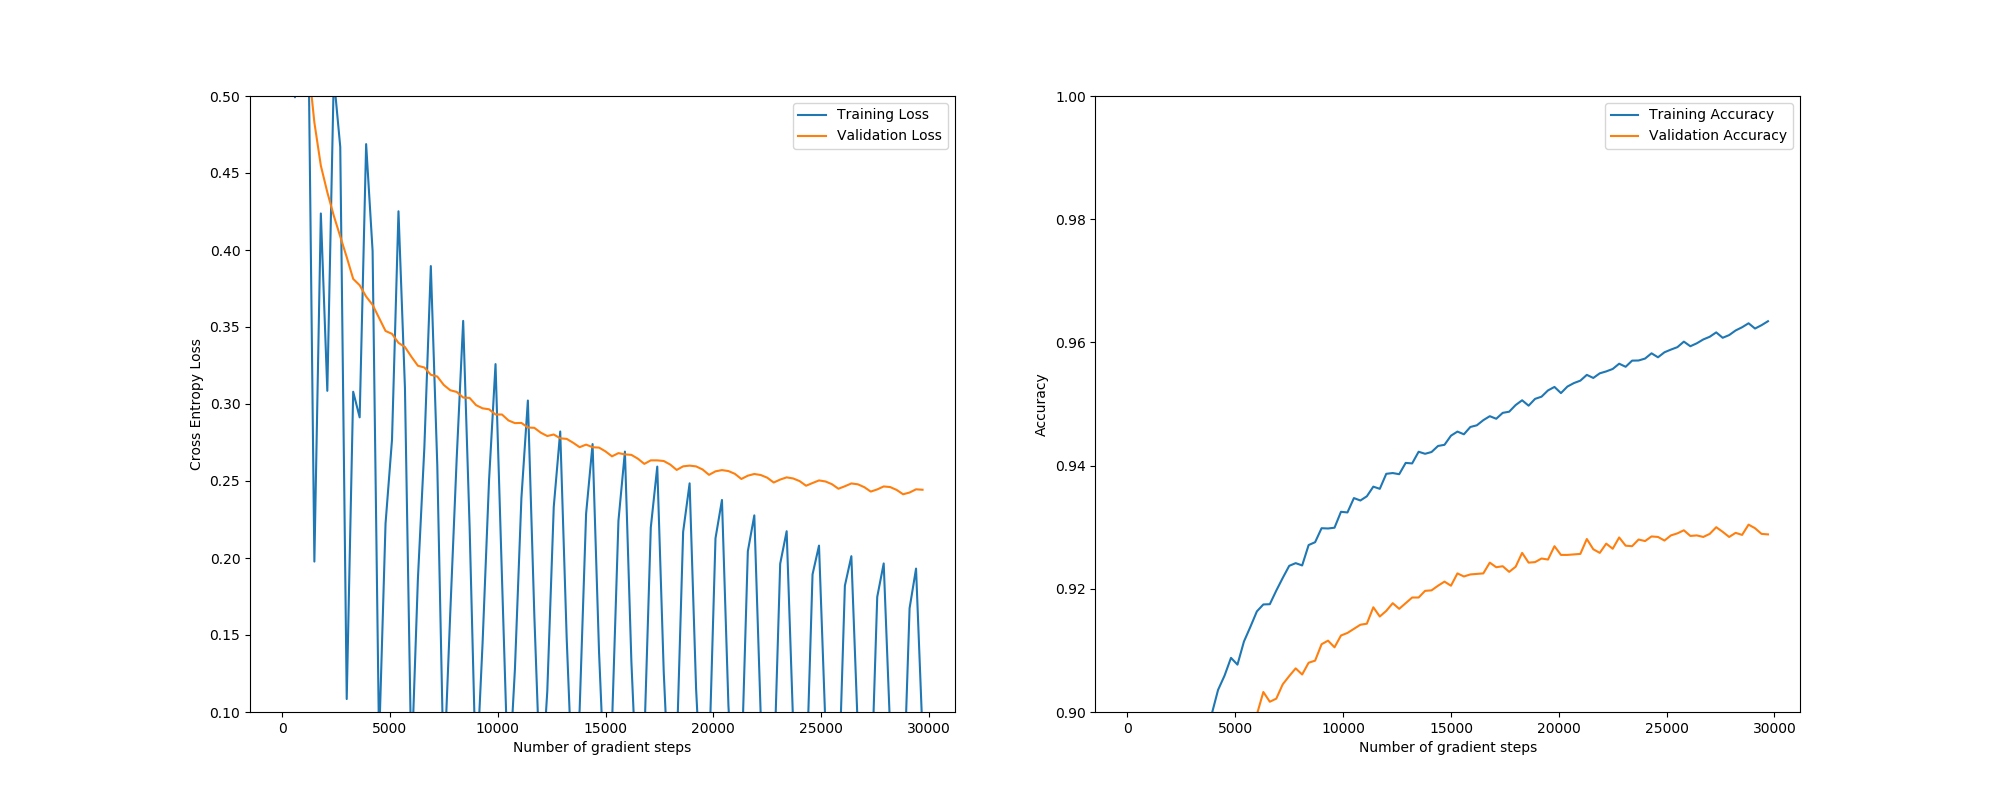
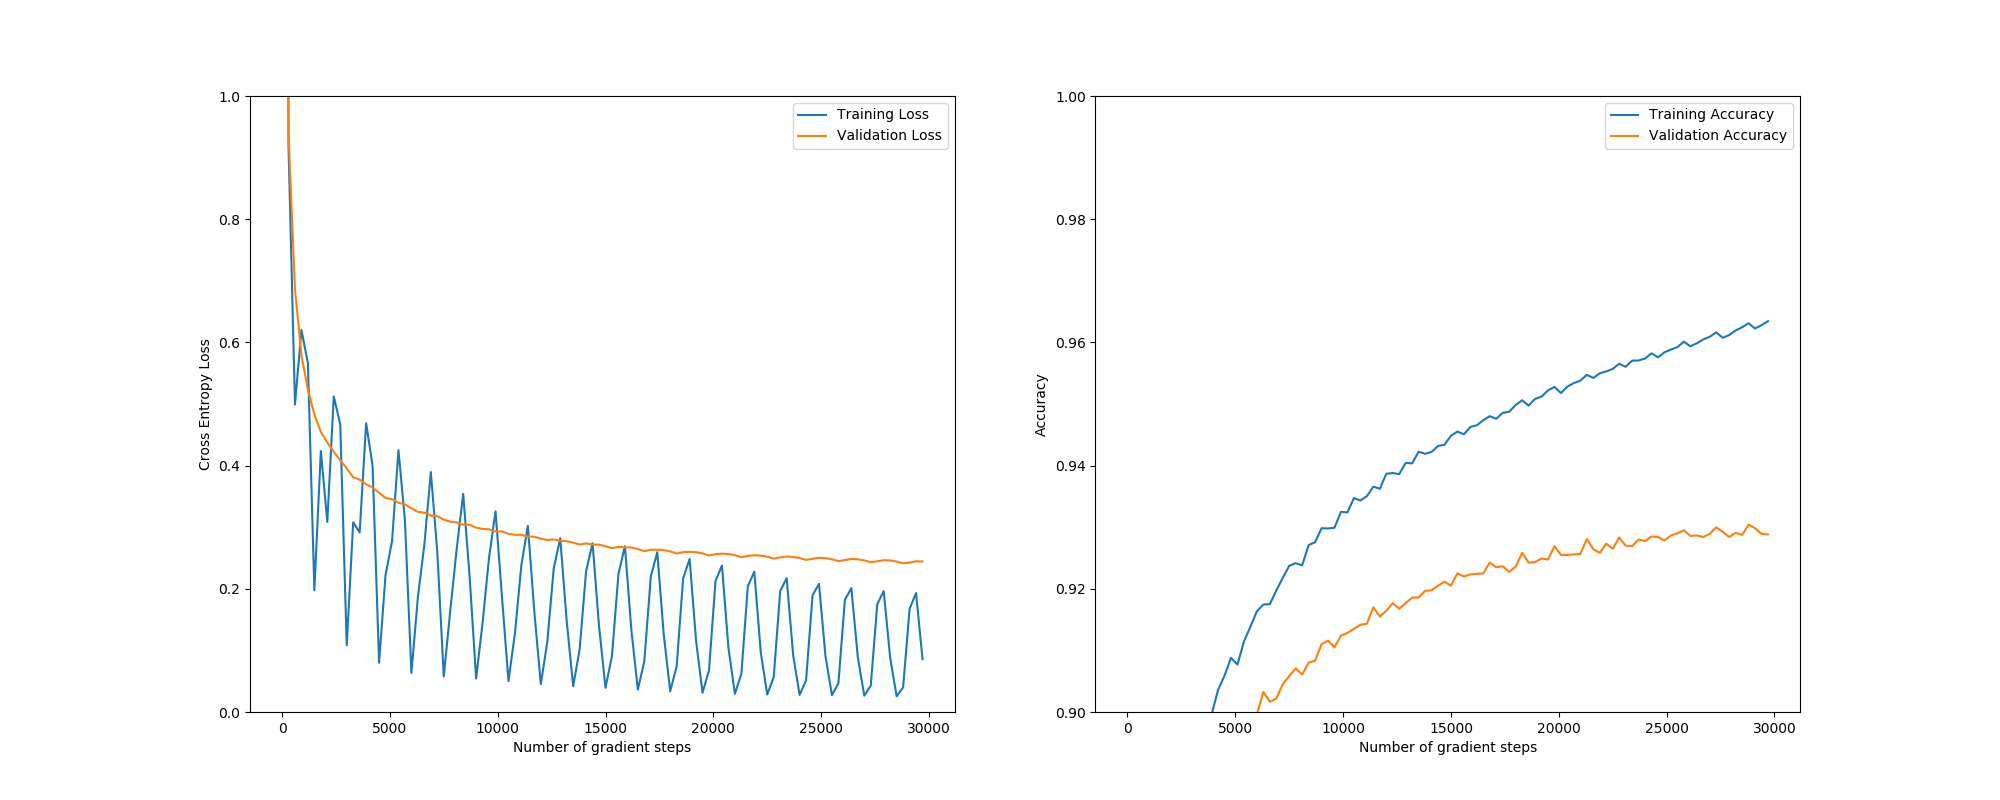
working gradient descent for MULTIPLE!!! layers

Changed region(s): [[0.093, 0.125, 0.465, 0.875], [0.372, 0.5938, 0.465, 0.625]]

diff --git a/assignment2/task2a.py b/assignment2/task2a.py
@@ -68,6 +68,9 @@ class SoftmaxModel:
         # A hidden layer with 64 neurons and a output layer with 10 neurons.
         self.neurons_per_layer = neurons_per_layer
 
+        #improvements
+        self.better_sigmoid = False
+
         #chaches
         self.activations = []
         self.forwards = []
@@ -108,6 +111,7 @@ class SoftmaxModel:
 
 
         z = np.dot(prev,self.ws[-1])
+        forwards.append(z)
 
         #softmax
         prev = np.divide(np.exp(z),np.sum(np.exp(z),axis = 1).reshape(-1,1))
@@ -136,21 +140,43 @@ class SoftmaxModel:
         # For example, self.grads[0] will be the gradient for the first hidden layer
         self.grads = []
 
+        activations = self.activations
+        forwards = self.forwards
 
-        zj = np.dot(X, self.ws[0])
-        aj = 1/(1 + np.exp(-zj))
+        #zj = np.dot(X, self.ws[0])
+        #aj = 1/(1 + np.exp(-zj))
 
-        del_k = - (targets - outputs)
+        for i in range(len(self.ws)):
+            #last layer
+            if i == 0:
+                del_k = - (targets - outputs)
+                self.grads.append(np.dot(del_k.T, activations[-1]).T/X.shape[0])
 
-        grad_w_kj = (np.dot(del_k.T, aj)).T
+            else:
+                if self.use_improved_sigmoid:
+                    #to be implemented
+                    break
+                else:
+                    #all hidden layer
+                    der_sig = (1/(1 + np.exp(-forwards[-i-1])))*(1 - (1/(1 + np.exp(-forwards[-i-1]))))
+                    del_j = np.dot(del_k, self.ws[-i].T)*der_sig
+                    grad_w_ij = np.dot(activations[-i-1].T,del_j)
+                    self.grads.insert(0, grad_w_ij/X.shape[0]) #insert in the beginning of list
+                    del_k = del_j
 
-        der_sig = (1/(1 + np.exp(-zj)))*(1 - (1/(1 + np.exp(-zj))))
 
-        del_j = np.dot(self.ws[1], del_k.T)* der_sig.T
-        grad_w_ij = np.dot(del_j, X).T
+
+
+
+        #grad_w_kj = (np.dot(del_k.T, activations[-1])).T #outputlayer
+
+        #der_sig = (1/(1 + np.exp(-zj)))*(1 - (1/(1 + np.exp(-zj))))
+
+        #del_j = np.dot(self.ws[1], del_k.T) * der_sig.T
+        #grad_w_ij = np.dot(del_j, X).T
 
         #self.grads = [grad_w_ij.T/X.shape[0], grad_w_kj.T/X.shape[0]]
-        self.grads = [grad_w_ij/X.shape[0], grad_w_kj/X.shape[0]]
+        #self.grads = [grad_w_ij/X.shape[0], grad_w_kj/X.shape[0]]
 
         for grad, w in zip(self.grads, self.ws):
             assert grad.shape == w.shape,\

diff --git a/assignment2/task2.py b/assignment2/task2.py
@@ -54,12 +54,7 @@ def train(
 
             #task2c
             #randomize weights for hidden layers
-            '''
-            for i in range (len(model.ws)-1):
-                model.ws[i] = np.random.uniform(-1,1,(785, 64))
-            #randomize weights for outputlayer
-            model.ws[-1] = np.random.uniform(-1,1,(64, 10))
-'''
+
             outputs = model.forward(X_batch)
             model.backward(X_batch, outputs, Y_batch)
 
@@ -67,6 +62,8 @@ def train(
             for i in range(len(model.ws)):
                 model.ws[i] -= learning_rate * model.grads[i]
 
+            #_train_loss = cross_entropy_loss(Y_train, model.forward(X_train))
+            #train_loss[global_step] = _train_loss
 
 
             # Track train / validation loss / accuracy
@@ -75,8 +72,7 @@ def train(
                 _val_loss = cross_entropy_loss(Y_val, model.forward(X_val))
                 val_loss[global_step] = _val_loss
 
-                _train_loss = cross_entropy_loss(Y_batch, outputs)
-                train_loss[global_step] = _train_loss
+
 
                 train_accuracy[global_step] = calculate_accuracy(
                     X_train, Y_train, model)
@@ -84,6 +80,7 @@ def train(
                     X_val, Y_val, model)
 
             global_step += 1
+
     return model, train_loss, val_loss, train_accuracy, val_accuracy
 
 
@@ -145,7 +142,8 @@ if __name__ == "__main__":
     # Plot loss
     plt.figure(figsize=(20, 8))
     plt.subplot(1, 2, 1)
-    plt.ylim([0.1, .5])
+    plt.ylim([0,1])
+    #plt.ylim([0.1, .5])
     utils.plot_loss(train_loss, "Training Loss")
     utils.plot_loss(val_loss, "Validation Loss")
     plt.xlabel("Number of gradient steps")
@@ -159,5 +157,5 @@ if __name__ == "__main__":
     plt.legend()
     plt.xlabel("Number of gradient steps")
     plt.ylabel("Accuracy")
-    plt.savefig("softmax_train_graph.png")
+    plt.savefig("softmax_train_graph_task2.png")
     plt.show()

diff --git a/assignment2/task4c.py b/assignment2/task4c.py
@@ -19,8 +19,8 @@ if __name__ == "__main__":
 
     # Modify your network here
     neurons_per_layer = [64, 64, 10]
-    use_improved_sigmoid = True
-    use_improved_weight_init = True
+    use_improved_sigmoid = False#True
+    use_improved_weight_init = False#True
     model = SoftmaxModel(
         neurons_per_layer, use_improved_sigmoid, use_improved_weight_init)
 
@@ -31,4 +31,3 @@ if __name__ == "__main__":
         model.ws[layer_idx] = np.random.uniform(-1, 1, size=w.shape)
 
     gradient_approximation_test(model, X_train, Y_train)
-
